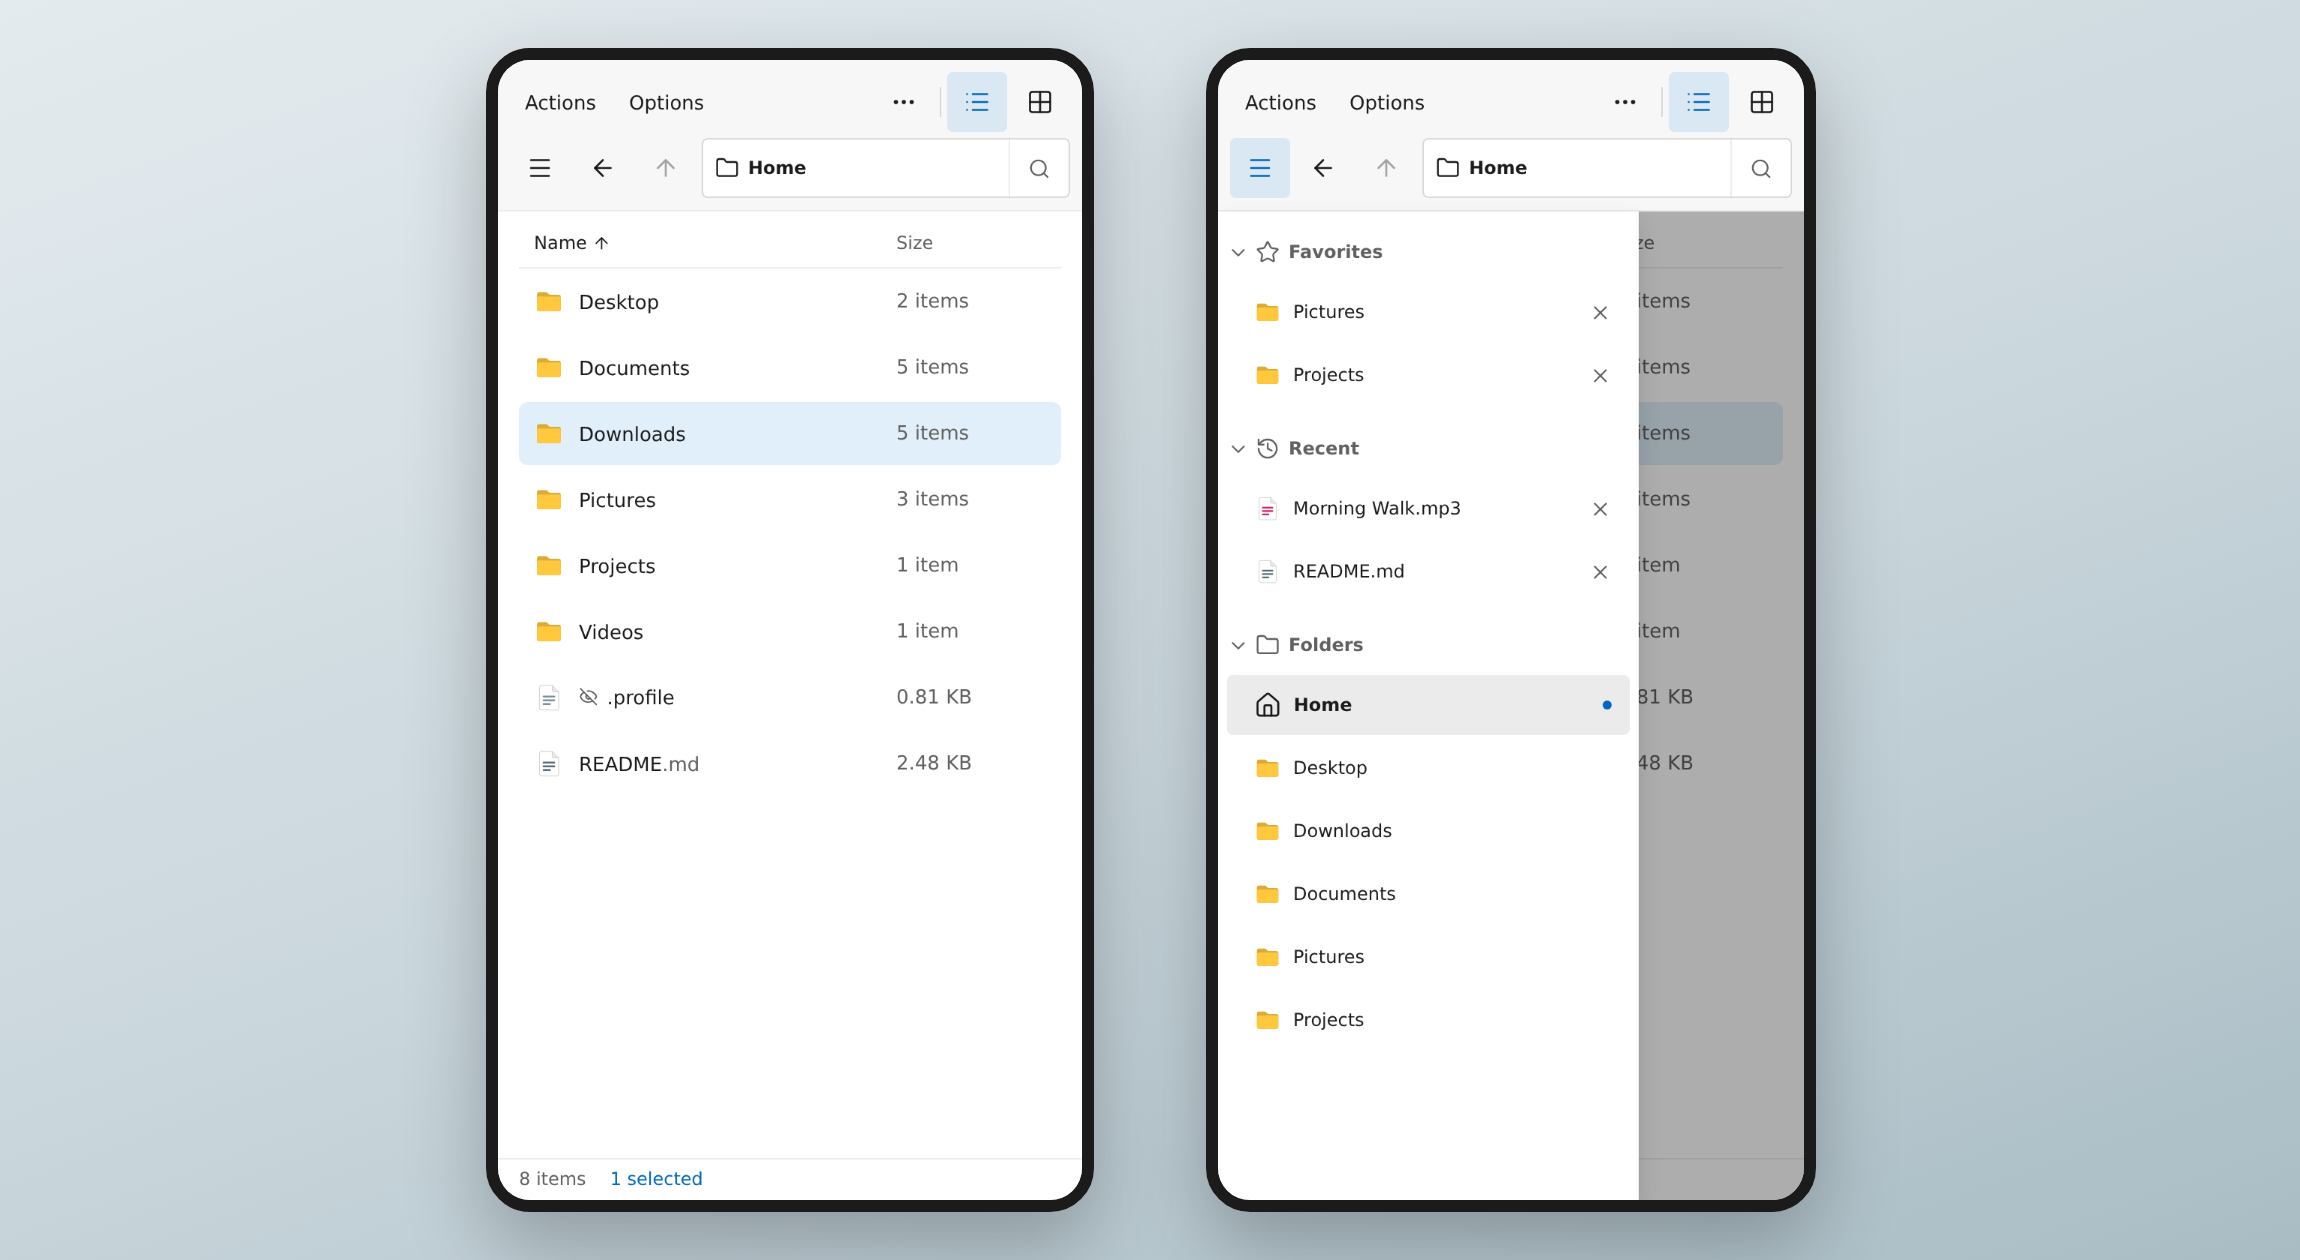
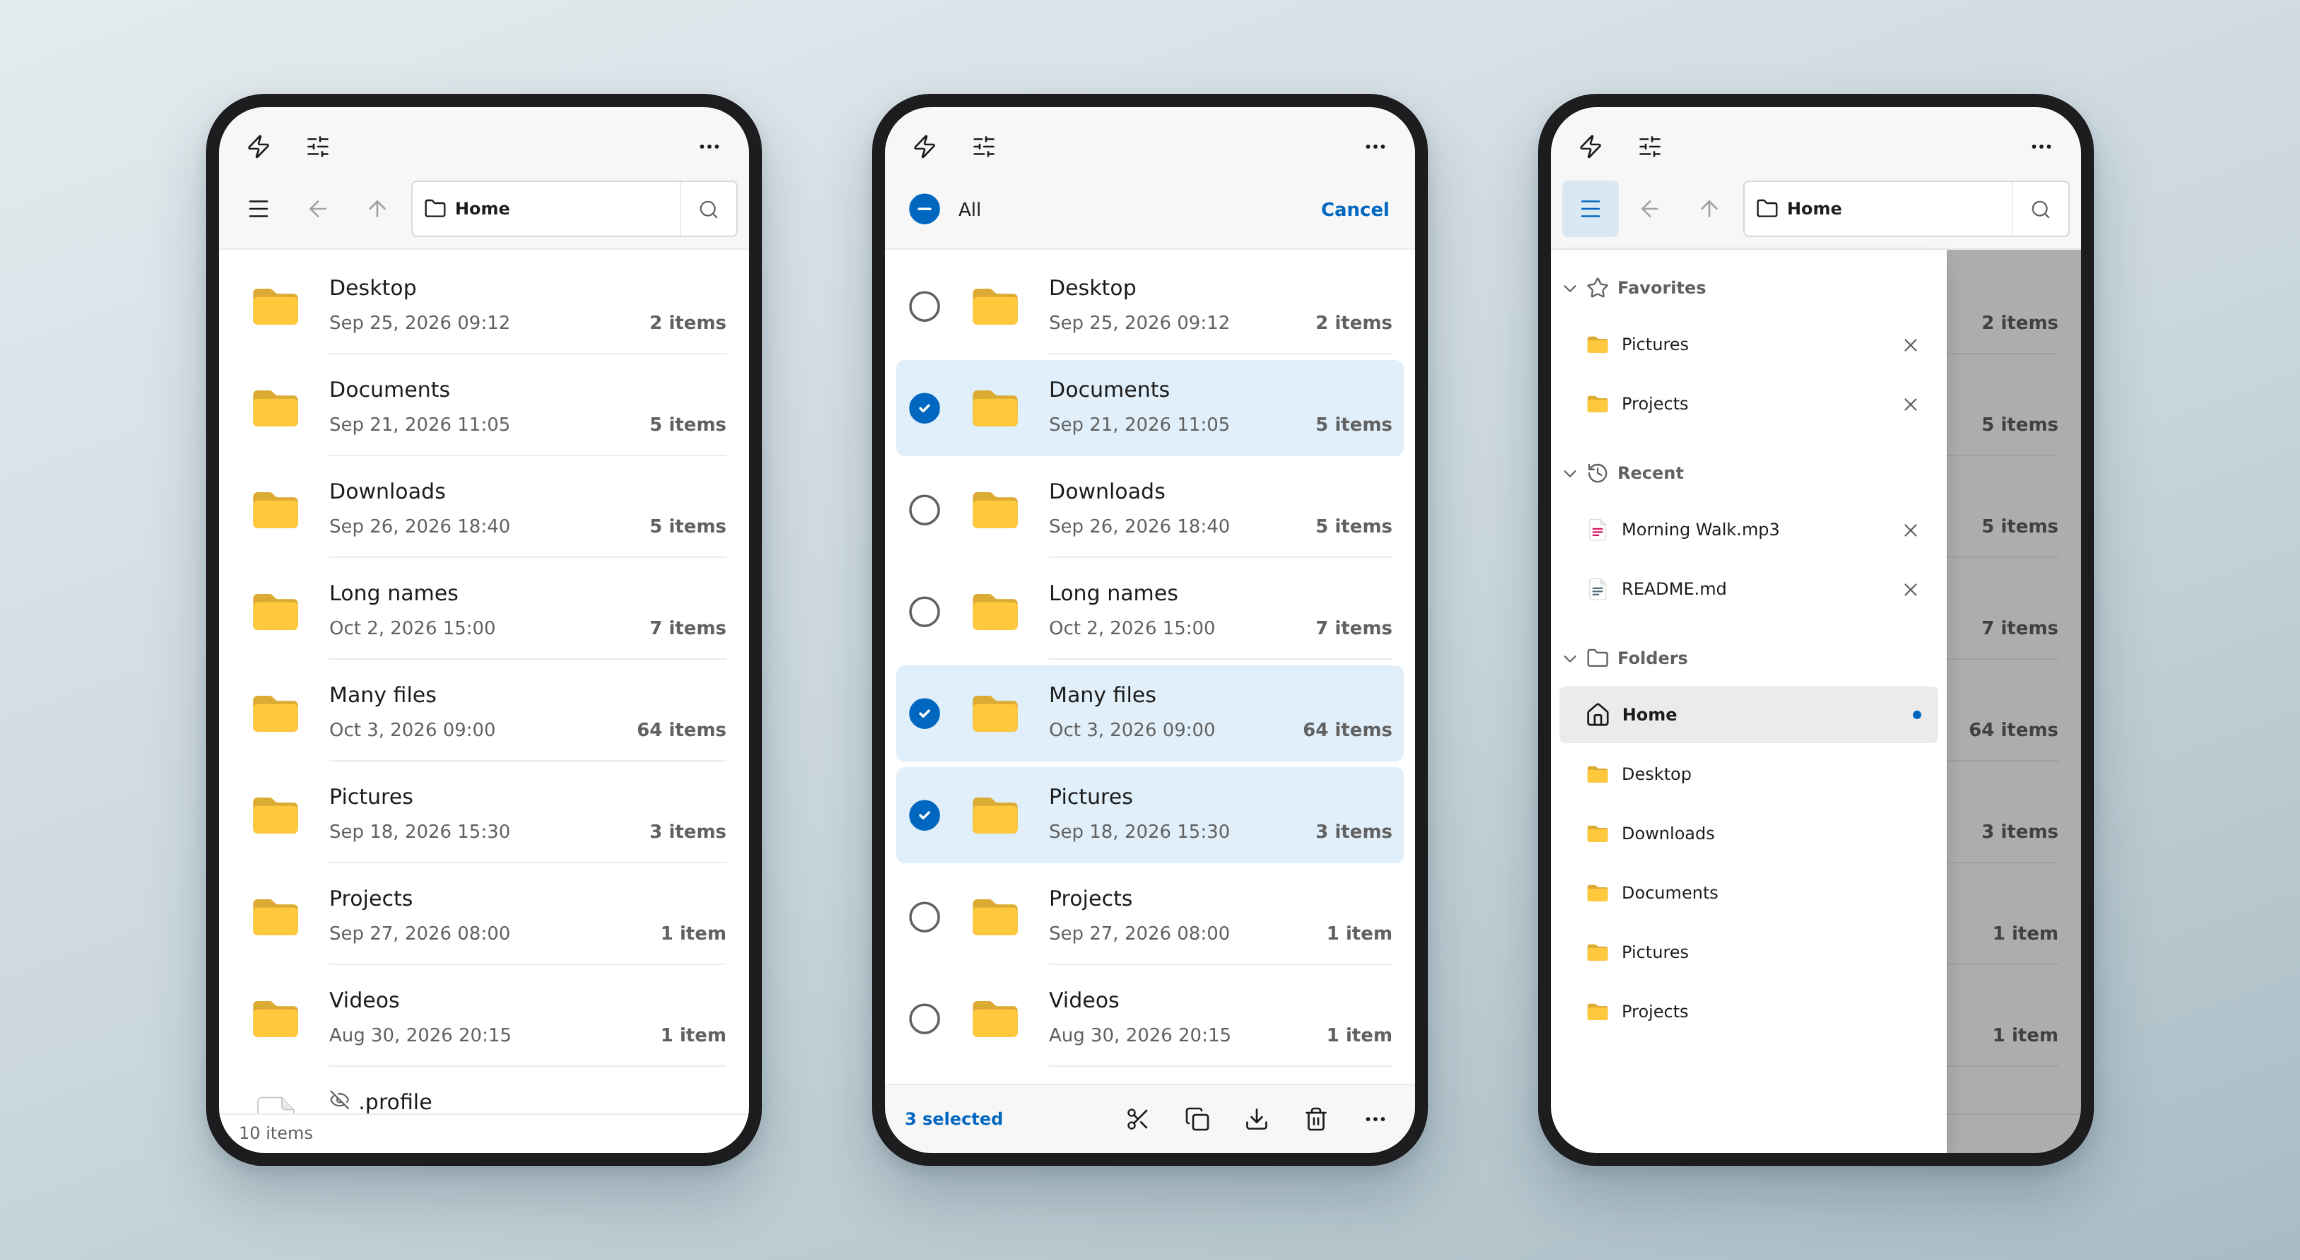
update the phone preview with selection mode

diff --git a/CHANGELOG.md b/CHANGELOG.md
@@ -9,6 +9,7 @@ The project follows [Semantic Versioning](https://semver.org/).
 
 - Playground: a "Many files" folder with 64 files, a long name every ninth, for trying scrolling and selecting many.
 - README: links to the website, its live demo, and the matching documentation page under each guide and reference section.
+- README: a new phone preview with the phone list, selection mode and the sidebar drawer.
 - README: the website's homepage animation (`images/preview-animation.webp`, captured frame by frame from its timeline) opens the page instead of the logo, which is removed.
 
 ## [7.6.0]

diff --git a/README.md b/README.md
@@ -45,7 +45,7 @@ it is a REST API, S3, Firebase, a CMS media library or data in memory.
 </p>
 
 <p align="center">
-    <img src="./images/preview-mobile.png" alt="Chonky2 on a phone: the list view, and the sidebar open as a drawer" width="800" />
+    <img src="./images/preview-mobile.png" alt="Chonky2 on a phone: the list view, selection mode with three folders checked and the action bar, and the sidebar open as a drawer" width="800" />
 </p>
 
 ## Contents
